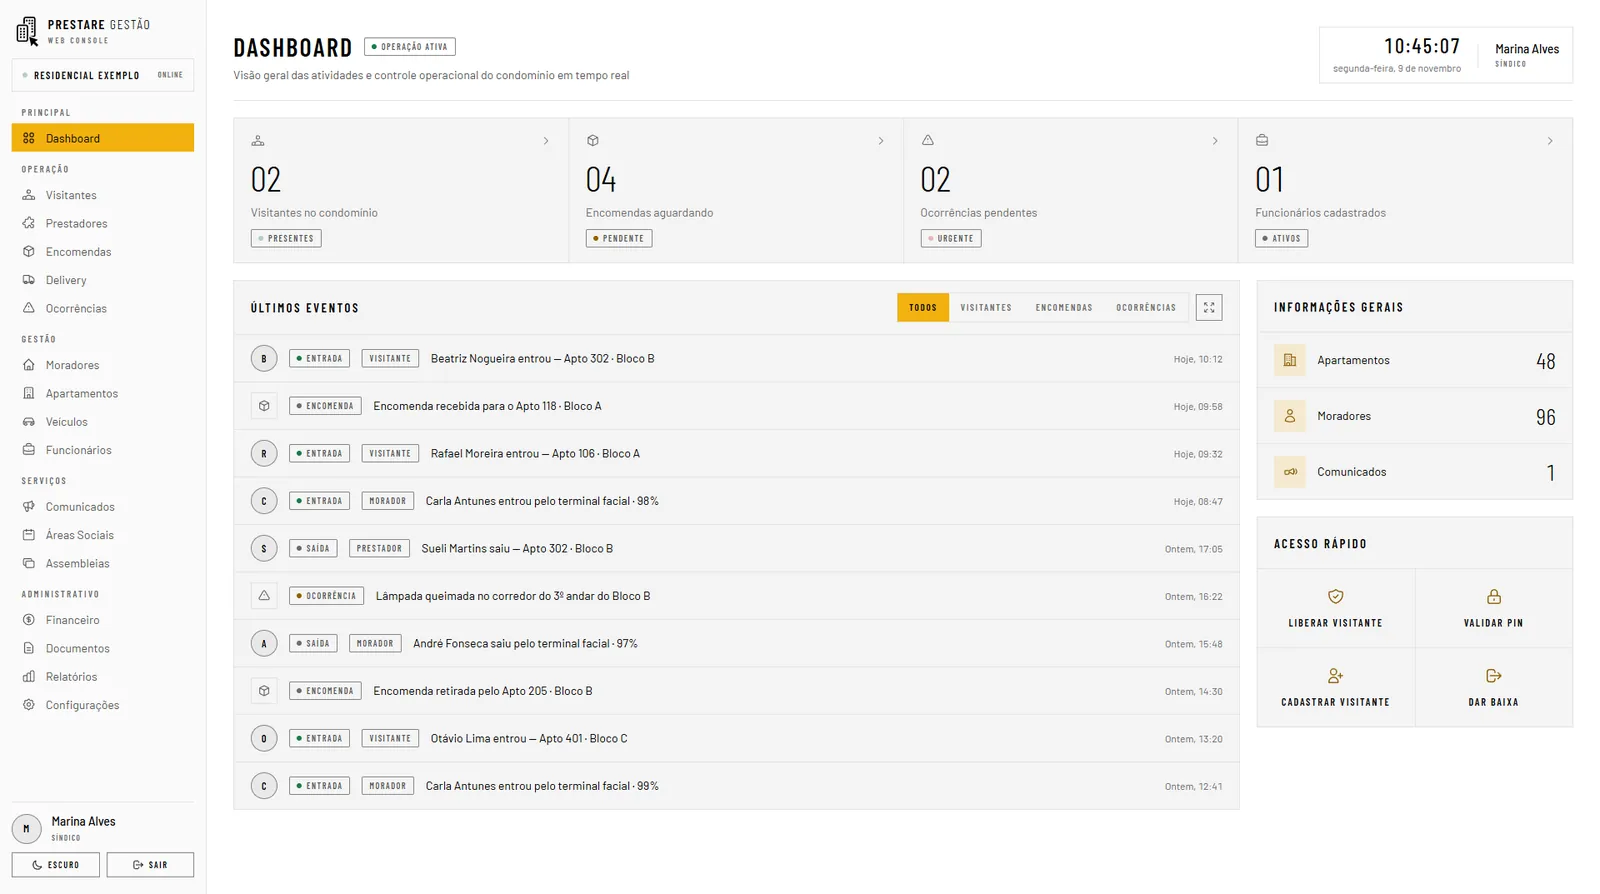
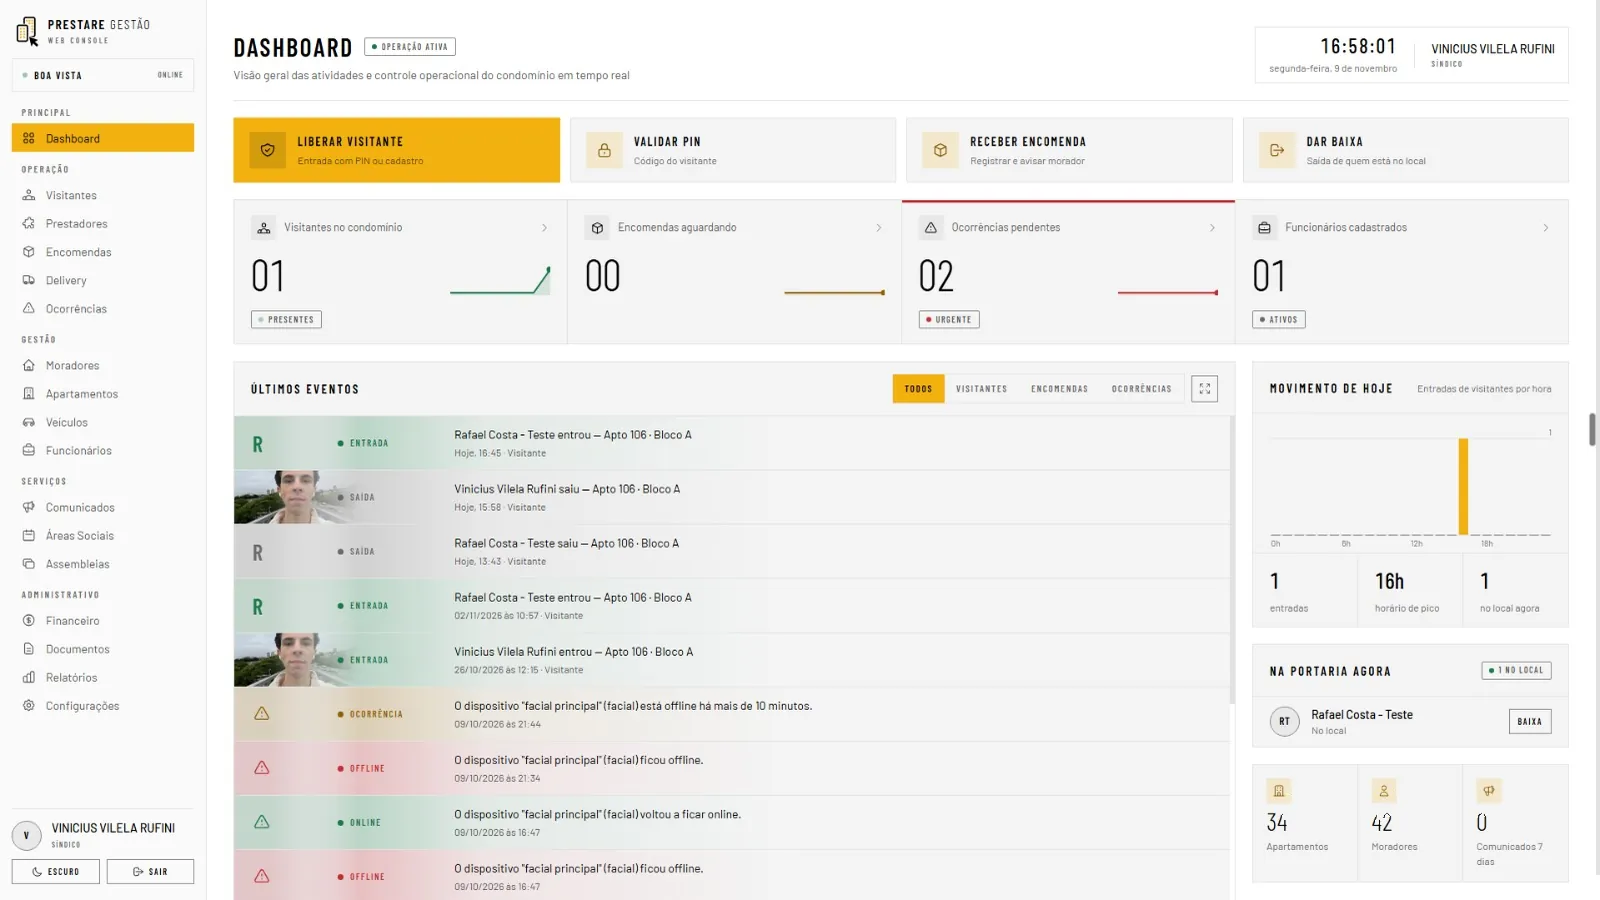
feat(landing): telas novas do sistema web, sem a marca d'água do Windows
- Dashboard e Visitantes no visual novo, com versão escura que segue o tema
  na /sobre; Moradores e Áreas sociais entram no carrossel da /sobre e na
  galeria da /sindico (agora 3 colunas, 6 telas).
- Marca d'água 'Ativar o Windows' removida das capturas.

diff --git a/click-cond-web/apps/portaria-web/public/sindico/index.html b/click-cond-web/apps/portaria-web/public/sindico/index.html
@@ -201,7 +201,7 @@
     .sindico-benefits li{padding-top:20px;border-top:1px solid var(--line-200);min-width:0}
     .sindico-benefits strong{display:block;font-family:var(--font-display);font-weight:600;font-size:20px;line-height:24px;letter-spacing:.1em;text-transform:uppercase}
     .sindico-benefits span{display:block;margin-top:10px;color:var(--ink-muted)}
-    .sindico-console-grid{display:grid;grid-template-columns:repeat(4,minmax(0,1fr));gap:1px;background:var(--line-100);border:1px solid var(--line-100);margin-top:56px}
+    .sindico-console-grid{display:grid;grid-template-columns:repeat(3,minmax(0,1fr));gap:1px;background:var(--line-100);border:1px solid var(--line-100);margin-top:56px}
     .sindico-page figure{margin:0;background:var(--bg-000);min-width:0;transition:background .3s}
     .sindico-page figure:hover{background:var(--bg-200)}
     .sindico-shot{width:100%;height:100%;padding:16px;display:block;text-align:left;cursor:zoom-in}
@@ -399,7 +399,7 @@
           <a class="btn sindico-button" href="#orcamento">Pedir orçamento para meu condomínio <span aria-hidden="true">→</span></a>
         </div>
         <div class="sindico-hero-visual">
-          <div class="sindico-device sindico-device-web"><img fetchpriority="high" decoding="async" srcset="/sobre/assets/web-dashboard-claro-800.webp 800w, /sobre/assets/web-dashboard-claro.webp 1600w" sizes="(max-width: 900px) 92vw, 45vw" src="/sobre/assets/web-dashboard-claro.webp" alt="Dashboard do sistema web: visitantes no local, encomendas, ocorrências e últimos eventos" width="1600" height="894"></div>
+          <div class="sindico-device sindico-device-web"><img fetchpriority="high" decoding="async" srcset="/sobre/assets/web-dashboard-claro-800.webp 800w, /sobre/assets/web-dashboard-claro.webp 1600w" sizes="(max-width: 900px) 92vw, 45vw" src="/sobre/assets/web-dashboard-claro.webp" alt="Dashboard do sistema web: visitantes no local, encomendas, ocorrências e últimos eventos" width="1600" height="900"></div>
           <div class="sindico-device sindico-device-mobile"><img class="img-dark" loading="lazy" decoding="async" srcset="/sobre/assets/TelaInicio-dark-360.webp 360w, /sobre/assets/TelaInicio-dark.webp 738w" sizes="190px" src="/sobre/assets/TelaInicio-dark.webp" alt="Tela inicial do aplicativo" width="738" height="1600"><img class="img-light" loading="lazy" decoding="async" srcset="/sobre/assets/TelaInicio-light-360.webp 360w, /sobre/assets/TelaInicio-light.webp 738w" sizes="190px" src="/sobre/assets/TelaInicio-light.webp" alt="Tela inicial do aplicativo" width="738" height="1600"></div>
           <span class="sindico-sync-badge">Telas do sistema com dados fictícios</span>
         </div>
@@ -493,10 +493,12 @@
         <h2 id="console-title">As telas do sistema web para síndico.</h2>
         <p class="sindico-section-lead">Telas do sistema com dados fictícios. Clique em uma delas para ampliar.</p>
         <div class="sindico-console-grid">
-          <figure><button type="button" class="sindico-shot" data-titulo="Visão geral da operação" data-texto="A tela inicial mostra quantos visitantes estão no condomínio, as encomendas aguardando retirada, as ocorrências pendentes e os funcionários cadastrados. Logo abaixo, a lista de últimos eventos registra entradas e saídas, e o acesso rápido leva às tarefas mais comuns." data-src="/sobre/assets/web-dashboard-claro.webp" data-alt="Dashboard do sistema web, com indicadores do dia e últimos eventos"><img loading="lazy" decoding="async" srcset="/sobre/assets/web-dashboard-claro-800.webp 800w, /sobre/assets/web-dashboard-claro.webp 1600w" sizes="(max-width: 560px) 92vw, (max-width: 1100px) 46vw, 25vw" src="/sobre/assets/web-dashboard-claro.webp" alt="Dashboard do sistema web, com indicadores do dia e últimos eventos" width="1600" height="894"><figcaption>Visão geral da operação</figcaption><span class="sindico-shot-hint">Clique para ampliar e entender</span></button></figure>
-          <figure><button type="button" class="sindico-shot" data-titulo="Visitantes e autorizações" data-texto="Consulte quem entrou, quem saiu e quem está autorizado, em uma lista com histórico e o documento mascarado na tela." data-src="/sobre/assets/web-visitantes-claro.webp" data-alt="Tela de visitantes do sistema web, com ativos no local e quem saiu"><img loading="lazy" decoding="async" srcset="/sobre/assets/web-visitantes-claro-800.webp 800w, /sobre/assets/web-visitantes-claro.webp 1600w" sizes="(max-width: 560px) 92vw, (max-width: 1100px) 46vw, 25vw" src="/sobre/assets/web-visitantes-claro.webp" alt="Tela de visitantes do sistema web, com ativos no local e quem saiu" width="1600" height="900"><figcaption>Visitantes e autorizações</figcaption><span class="sindico-shot-hint">Clique para ampliar e entender</span></button></figure>
-          <figure><button type="button" class="sindico-shot" data-titulo="Ocorrências com resposta" data-texto="Cada ocorrência chega com prioridade e prazo. A administração responde na própria ficha, atribui um responsável e acompanha até a solução." data-src="/sobre/assets/web-ocorrencias-claro.webp" data-alt="Tela de ocorrências do sistema web, com situação e prazo"><img loading="lazy" decoding="async" srcset="/sobre/assets/web-ocorrencias-claro-800.webp 800w, /sobre/assets/web-ocorrencias-claro.webp 1600w" sizes="(max-width: 560px) 92vw, (max-width: 1100px) 46vw, 25vw" src="/sobre/assets/web-ocorrencias-claro.webp" alt="Tela de ocorrências do sistema web, com situação e prazo" width="1600" height="899"><figcaption>Ocorrências com resposta</figcaption><span class="sindico-shot-hint">Clique para ampliar e entender</span></button></figure>
-          <figure><button type="button" class="sindico-shot" data-titulo="Relatórios para prestar contas" data-texto="Relatórios de acessos, encomendas, ocorrências e balanço financeiro, com filtro por período e saída em PDF ou planilha." data-src="/sobre/assets/web-relatorios-claro.webp" data-alt="Tela de relatórios do sistema web, com filtro por período"><img loading="lazy" decoding="async" srcset="/sobre/assets/web-relatorios-claro-800.webp 800w, /sobre/assets/web-relatorios-claro.webp 1600w" sizes="(max-width: 560px) 92vw, (max-width: 1100px) 46vw, 25vw" src="/sobre/assets/web-relatorios-claro.webp" alt="Tela de relatórios do sistema web, com filtro por período" width="1600" height="900"><figcaption>Relatórios para prestar contas</figcaption><span class="sindico-shot-hint">Clique para ampliar e entender</span></button></figure>
+          <figure><button type="button" class="sindico-shot" data-titulo="Visão geral da operação" data-texto="A tela inicial mostra quantos visitantes estão no condomínio, as encomendas aguardando retirada, as ocorrências pendentes e os funcionários cadastrados. Logo abaixo, a lista de últimos eventos registra entradas e saídas, e o acesso rápido leva às tarefas mais comuns." data-src="/sobre/assets/web-dashboard-claro.webp" data-alt="Dashboard do sistema web, com indicadores do dia e últimos eventos"><img loading="lazy" decoding="async" srcset="/sobre/assets/web-dashboard-claro-800.webp 800w, /sobre/assets/web-dashboard-claro.webp 1600w" sizes="(max-width: 560px) 92vw, (max-width: 1100px) 46vw, 33vw" src="/sobre/assets/web-dashboard-claro.webp" alt="Dashboard do sistema web, com indicadores do dia e últimos eventos" width="1600" height="900"><figcaption>Visão geral da operação</figcaption><span class="sindico-shot-hint">Clique para ampliar e entender</span></button></figure>
+          <figure><button type="button" class="sindico-shot" data-titulo="Visitantes e autorizações" data-texto="Consulte quem entrou, quem saiu e quem está autorizado, em uma lista com histórico e o documento mascarado na tela." data-src="/sobre/assets/web-visitantes-claro.webp" data-alt="Tela de visitantes do sistema web, com ativos no local e quem saiu"><img loading="lazy" decoding="async" srcset="/sobre/assets/web-visitantes-claro-800.webp 800w, /sobre/assets/web-visitantes-claro.webp 1600w" sizes="(max-width: 560px) 92vw, (max-width: 1100px) 46vw, 33vw" src="/sobre/assets/web-visitantes-claro.webp" alt="Tela de visitantes do sistema web, com ativos no local e quem saiu" width="1600" height="900"><figcaption>Visitantes e autorizações</figcaption><span class="sindico-shot-hint">Clique para ampliar e entender</span></button></figure>
+          <figure><button type="button" class="sindico-shot" data-titulo="Cadastro de moradores" data-texto="Proprietários, inquilinos e dependentes em um só cadastro, com busca por nome, documento ou apartamento. Dá para cadastrar um a um ou importar de uma planilha Excel, e exportar a lista." data-src="/sobre/assets/web-moradores-claro.webp" data-alt="Tela de moradores do sistema web, com proprietários, inquilinos e dependentes"><img loading="lazy" decoding="async" srcset="/sobre/assets/web-moradores-claro-800.webp 800w, /sobre/assets/web-moradores-claro.webp 1600w" sizes="(max-width: 560px) 92vw, (max-width: 1100px) 46vw, 33vw" src="/sobre/assets/web-moradores-claro.webp" alt="Tela de moradores do sistema web, com proprietários, inquilinos e dependentes" width="1600" height="900"><figcaption>Cadastro de moradores</figcaption><span class="sindico-shot-hint">Clique para ampliar e entender</span></button></figure>
+          <figure><button type="button" class="sindico-shot" data-titulo="Áreas sociais e reservas" data-texto="Cada espaço de lazer fica cadastrado com foto, capacidade e regra de reserva. As solicitações dos moradores chegam em uma aba própria, e a administração aprova ou recusa." data-src="/sobre/assets/web-areas-sociais-claro.webp" data-alt="Tela de áreas sociais do sistema web, com espaços de lazer e reservas"><img loading="lazy" decoding="async" srcset="/sobre/assets/web-areas-sociais-claro-800.webp 800w, /sobre/assets/web-areas-sociais-claro.webp 1600w" sizes="(max-width: 560px) 92vw, (max-width: 1100px) 46vw, 33vw" src="/sobre/assets/web-areas-sociais-claro.webp" alt="Tela de áreas sociais do sistema web, com espaços de lazer e reservas" width="1600" height="900"><figcaption>Áreas sociais e reservas</figcaption><span class="sindico-shot-hint">Clique para ampliar e entender</span></button></figure>
+          <figure><button type="button" class="sindico-shot" data-titulo="Ocorrências com resposta" data-texto="Cada ocorrência chega com prioridade e prazo. A administração responde na própria ficha, atribui um responsável e acompanha até a solução." data-src="/sobre/assets/web-ocorrencias-claro.webp" data-alt="Tela de ocorrências do sistema web, com situação e prazo"><img loading="lazy" decoding="async" srcset="/sobre/assets/web-ocorrencias-claro-800.webp 800w, /sobre/assets/web-ocorrencias-claro.webp 1600w" sizes="(max-width: 560px) 92vw, (max-width: 1100px) 46vw, 33vw" src="/sobre/assets/web-ocorrencias-claro.webp" alt="Tela de ocorrências do sistema web, com situação e prazo" width="1600" height="899"><figcaption>Ocorrências com resposta</figcaption><span class="sindico-shot-hint">Clique para ampliar e entender</span></button></figure>
+          <figure><button type="button" class="sindico-shot" data-titulo="Relatórios para prestar contas" data-texto="Relatórios de acessos, encomendas, ocorrências e balanço financeiro, com filtro por período e saída em PDF ou planilha." data-src="/sobre/assets/web-relatorios-claro.webp" data-alt="Tela de relatórios do sistema web, com filtro por período"><img loading="lazy" decoding="async" srcset="/sobre/assets/web-relatorios-claro-800.webp 800w, /sobre/assets/web-relatorios-claro.webp 1600w" sizes="(max-width: 560px) 92vw, (max-width: 1100px) 46vw, 33vw" src="/sobre/assets/web-relatorios-claro.webp" alt="Tela de relatórios do sistema web, com filtro por período" width="1600" height="900"><figcaption>Relatórios para prestar contas</figcaption><span class="sindico-shot-hint">Clique para ampliar e entender</span></button></figure>
         </div>
         <dialog class="sindico-lightbox" aria-labelledby="lightbox-title">
           <form method="dialog"><button class="ibtn sindico-lightbox-close" aria-label="Fechar">×</button></form>

diff --git a/click-cond-web/apps/portaria-web/public/sobre/pagina.js b/click-cond-web/apps/portaria-web/public/sobre/pagina.js
@@ -32,7 +32,7 @@ class Pagina {
 
   // Ordem do carrossel do console. As legendas e os textos moram no TELAS,
   // para o carrossel e o modal nunca divergirem.
-  CONSOLE_TELAS = ["web-visitantes", "web-dashboard", "web-ocorrencias", "web-relatorios"];
+  CONSOLE_TELAS = ["web-visitantes", "web-dashboard", "web-moradores", "web-areas-sociais", "web-ocorrencias", "web-relatorios"];
 
   alternarMenu = () => this.setState({ menuAberto: !this.state.menuAberto });
   fecharMenu = () => this.setState({ menuAberto: false });
@@ -138,7 +138,7 @@ class Pagina {
       itens: ["Foto e nome de quem está no portão", "Autorizar, negar ou decidir depois", "Resolve sem atender o interfone"]
     },
     "web-visitantes": {
-      src: "/sobre/assets/web-visitantes-claro.webp", srcClaro: "/sobre/assets/web-visitantes-claro.webp", dim: [1600, 900], tipo: "Sistema web", titulo: "Visitantes",
+      src: "/sobre/assets/web-visitantes-escuro.webp", srcClaro: "/sobre/assets/web-visitantes-claro.webp", dim: [1600, 900], tipo: "Sistema web", titulo: "Visitantes",
       legenda: "Visitantes · controle de acesso, entrada e saída do condomínio",
       texto: "A tela que a portaria usa no turno inteiro. Ativos no local, liberados aguardando, quem saiu e o total registrado, com documento mascarado na tela, validação de PIN e baixa por apartamento.",
       itens: ["Ativos no local em tempo real", "Dar baixa e nova visita em um clique", "Documento mascarado na lista"]
@@ -150,10 +150,22 @@ class Pagina {
       itens: ["Receitas, despesas e saldo do período", "Inadimplência por bloco e apartamento", "Exportação em CSV"]
     },
     "web-dashboard": {
-      src: "/sobre/assets/web-dashboard-claro.webp", srcClaro: "/sobre/assets/web-dashboard-claro.webp", dim: [1600, 894], tipo: "Sistema web", titulo: "Dashboard da operação",
+      src: "/sobre/assets/web-dashboard-escuro.webp", srcClaro: "/sobre/assets/web-dashboard-claro.webp", dim: [1600, 900], tipo: "Sistema web", titulo: "Dashboard da operação",
       legenda: "Dashboard · o condomínio agora, com os últimos eventos em tempo real",
       texto: "A tela que o síndico abre para saber como o condomínio está agora: visitantes no local, encomendas aguardando retirada, ocorrências pendentes e prestadores ativos. Ao lado, o fluxo de entradas e saídas em tempo real e os atalhos que a portaria mais usa no turno.",
       itens: ["Quatro indicadores do dia em destaque", "Últimos eventos com filtro por tipo", "Atalhos: liberar visitante, validar PIN, dar baixa"]
+    },
+    "web-moradores": {
+      src: "/sobre/assets/web-moradores-claro.webp", dim: [1600, 900], tipo: "Sistema web", titulo: "Moradores",
+      legenda: "Moradores · proprietários, inquilinos e dependentes em um só cadastro",
+      texto: "O diretório de quem mora no condomínio, separado entre proprietários, inquilinos e dependentes, com busca por nome, documento ou apartamento. O cadastro pode ser feito um a um ou importado de uma planilha Excel, e a lista pode ser exportada.",
+      itens: ["Proprietários, inquilinos e dependentes", "Importação por planilha Excel", "Documento mascarado na lista"]
+    },
+    "web-areas-sociais": {
+      src: "/sobre/assets/web-areas-sociais-escuro.webp", srcClaro: "/sobre/assets/web-areas-sociais-claro.webp", dim: [1600, 900], tipo: "Sistema web", titulo: "Áreas sociais e reservas",
+      legenda: "Áreas sociais · espaços de lazer, regras de uso e aprovação de reservas",
+      texto: "Salão de festas, churrasqueira e outros espaços ficam cadastrados com foto, capacidade e regra de reserva. As solicitações dos moradores chegam em uma aba própria, e a administração aprova ou recusa cada uma.",
+      itens: ["Capacidade e regra de uso por espaço", "Solicitações de reserva em uma aba", "Reservas pendentes e aprovadas"]
     },
     "web-ocorrencias": {
       src: "/sobre/assets/web-ocorrencias-claro.webp", srcClaro: "/sobre/assets/web-ocorrencias-claro.webp", dim: [1600, 899], tipo: "Sistema web", titulo: "Ocorrências",
@@ -672,14 +684,20 @@ class Pagina {
       consoleIr1: this.irConsole(1),
       consoleIr2: this.irConsole(2),
       consoleIr3: this.irConsole(3),
+      consoleIr4: this.irConsole(4),
+      consoleIr5: this.irConsole(5),
       consoleCor0: ci === 0 ? "var(--brand)" : "var(--line-200)",
       consoleCor1: ci === 1 ? "var(--brand)" : "var(--line-200)",
       consoleCor2: ci === 2 ? "var(--brand)" : "var(--line-200)",
       consoleCor3: ci === 3 ? "var(--brand)" : "var(--line-200)",
+      consoleCor4: ci === 4 ? "var(--brand)" : "var(--line-200)",
+      consoleCor5: ci === 5 ? "var(--brand)" : "var(--line-200)",
       consoleLarg0: ci === 0 ? "28px" : "14px",
       consoleLarg1: ci === 1 ? "28px" : "14px",
       consoleLarg2: ci === 2 ? "28px" : "14px",
       consoleLarg3: ci === 3 ? "28px" : "14px",
+      consoleLarg4: ci === 4 ? "28px" : "14px",
+      consoleLarg5: ci === 5 ? "28px" : "14px",
       mostrarNumeros: this.props.mostrarNumeros ?? true,
       mostrarFaq: this.props.mostrarFaq ?? true,
       telefone: this.formatarTelefone(this.props.whatsapp ?? "5517996608148"),

diff --git a/click-cond-web/apps/portaria-web/public/sobre/index.html b/click-cond-web/apps/portaria-web/public/sobre/index.html
@@ -800,7 +800,7 @@ ps-if{display:contents}ps-if[hidden]{display:none!important}
     <div class="ps-console" data-on-mouseenter="pausarConsole" data-on-mouseleave="retomarConsole">
       <div class="browser rv">
         <div class="bar"><i></i><i></i><i></i><span>Console da portaria</span></div>
-        <figure class="ps-frame" tabindex="0" role="button" aria-label="Visitantes no sistema web. Clique para ampliar" data-html="consoleImg" data-on-click="consoleAbrir" data-attr="aria-label:consoleAlt"><img loading="lazy" decoding="async" srcset="/sobre/assets/web-visitantes-claro-800.webp 800w, /sobre/assets/web-visitantes-claro.webp 1600w" sizes="(max-width: 1180px) 94vw, 1180px" src="/sobre/assets/web-visitantes-claro.webp" alt="Visitantes no sistema web, com dados fictícios" style="width:100%" width="1600" height="900"></figure>
+        <figure class="ps-frame" tabindex="0" role="button" aria-label="Visitantes no sistema web. Clique para ampliar" data-html="consoleImg" data-on-click="consoleAbrir" data-attr="aria-label:consoleAlt"><img class="img-dark" loading="lazy" decoding="async" srcset="/sobre/assets/web-visitantes-escuro-800.webp 800w, /sobre/assets/web-visitantes-escuro.webp 1600w" sizes="(max-width: 1180px) 94vw, 1180px" src="/sobre/assets/web-visitantes-escuro.webp" alt="Visitantes no sistema web, com dados fictícios" style="width:100%" width="1600" height="900"><img class="img-light" loading="lazy" decoding="async" srcset="/sobre/assets/web-visitantes-claro-800.webp 800w, /sobre/assets/web-visitantes-claro.webp 1600w" sizes="(max-width: 1180px) 94vw, 1180px" src="/sobre/assets/web-visitantes-claro.webp" alt="Visitantes no sistema web, com dados fictícios" style="width:100%" width="1600" height="900"></figure>
       </div>
       <div class="carrossel">
         <span data-t="consoleLegenda">Visitantes · controle de acesso, entrada e saída do condomínio</span>
@@ -809,8 +809,10 @@ ps-if{display:contents}ps-if[hidden]{display:none!important}
           <div class="dots">
             <button type="button" aria-label="Ver Visitantes" data-on-click="consoleIr0"><span style="width: 28px; background: var(--brand);" data-estilo="width:consoleLarg0,background:consoleCor0"></span></button>
             <button type="button" aria-label="Ver Dashboard" data-on-click="consoleIr1"><span style="width: 14px; background: var(--line-200);" data-estilo="width:consoleLarg1,background:consoleCor1"></span></button>
-            <button type="button" aria-label="Ver Ocorrências" data-on-click="consoleIr2"><span style="width: 14px; background: var(--line-200);" data-estilo="width:consoleLarg2,background:consoleCor2"></span></button>
-            <button type="button" aria-label="Ver Relatórios" data-on-click="consoleIr3"><span style="width: 14px; background: var(--line-200);" data-estilo="width:consoleLarg3,background:consoleCor3"></span></button>
+            <button type="button" aria-label="Ver Moradores" data-on-click="consoleIr2"><span style="width: 14px; background: var(--line-200);" data-estilo="width:consoleLarg2,background:consoleCor2"></span></button>
+            <button type="button" aria-label="Ver Áreas sociais" data-on-click="consoleIr3"><span style="width: 14px; background: var(--line-200);" data-estilo="width:consoleLarg3,background:consoleCor3"></span></button>
+            <button type="button" aria-label="Ver Ocorrências" data-on-click="consoleIr4"><span style="width: 14px; background: var(--line-200);" data-estilo="width:consoleLarg4,background:consoleCor4"></span></button>
+            <button type="button" aria-label="Ver Relatórios" data-on-click="consoleIr5"><span style="width: 14px; background: var(--line-200);" data-estilo="width:consoleLarg5,background:consoleCor5"></span></button>
           </div>
           <button class="ibtn" type="button" aria-label="Próxima tela" data-on-click="consoleProximo"><svg class="i" viewBox="0 0 24 24" aria-hidden="true"><path d="m9 18 6-6-6-6"/></svg></button>
         </div>

diff --git a/click-cond-web/apps/portaria-web/public/precos/index.html b/click-cond-web/apps/portaria-web/public/precos/index.html
@@ -65,7 +65,7 @@
         <div class="pg-ctas"><a class="btn" href="/sobre/#simulador">Simular para o meu condomínio <span aria-hidden="true">→</span></a><a class="btn sec" href="/sobre/#contato">Pedir orçamento</a></div>
         <p class="pg-data">Tabela atualizada em <time datetime="2026-11-09">9 de novembro de 2026</time></p>
       </div>
-      <figure class="pg-fig"><img fetchpriority="high" decoding="async" srcset="/sobre/assets/web-dashboard-claro-800.webp 800w, /sobre/assets/web-dashboard-claro.webp 1600w" sizes="(max-width: 900px) 92vw, 620px" src="/sobre/assets/web-dashboard-claro.webp" alt="Painel do console da portaria com visitantes no condomínio, encomendas aguardando, ocorrências pendentes e últimos eventos" width="1600" height="894"><figcaption>Painel do console da portaria. Dados fictícios.</figcaption></figure>
+      <figure class="pg-fig"><img fetchpriority="high" decoding="async" srcset="/sobre/assets/web-dashboard-claro-800.webp 800w, /sobre/assets/web-dashboard-claro.webp 1600w" sizes="(max-width: 900px) 92vw, 620px" src="/sobre/assets/web-dashboard-claro.webp" alt="Painel do console da portaria com visitantes no condomínio, encomendas aguardando, ocorrências pendentes e últimos eventos" width="1600" height="900"><figcaption>Painel do console da portaria. Dados fictícios.</figcaption></figure>
     </div></section>
     <section id="tabela"><div class="sindico-shell">
       <p class="sindico-kicker">Tabela</p>

diff --git a/click-cond-web/apps/portaria-web/src/app/sindico-landing.spec.ts b/click-cond-web/apps/portaria-web/src/app/sindico-landing.spec.ts
@@ -74,7 +74,7 @@ it('apresenta a transformação da rotina em um fluxo visual sem grade de cards 
   expect(document.querySelectorAll('.sindico-flow-sources li')).toHaveLength(6);
   expect(document.querySelectorAll('.sindico-outcomes li')).toHaveLength(3);
   expect(document.querySelectorAll('.sindico-story .sindico-card')).toHaveLength(0);
-  expect(document.querySelectorAll('.sindico-console-grid .sindico-shot')).toHaveLength(4);
+  expect(document.querySelectorAll('.sindico-console-grid .sindico-shot')).toHaveLength(6);
   expect(document.querySelector('.sindico-lightbox')).not.toBeNull();
 });
 
